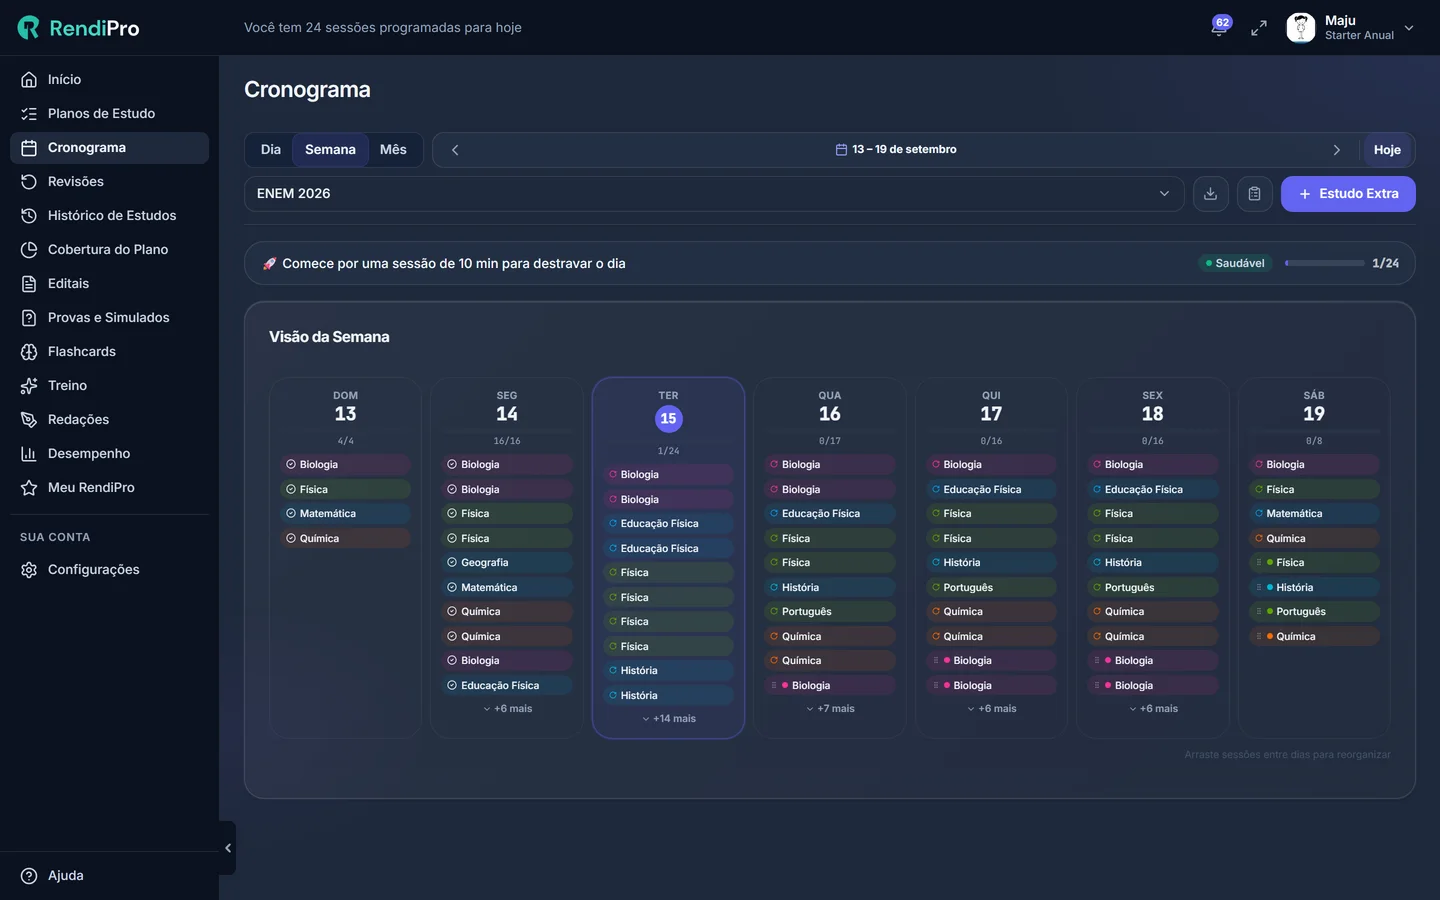
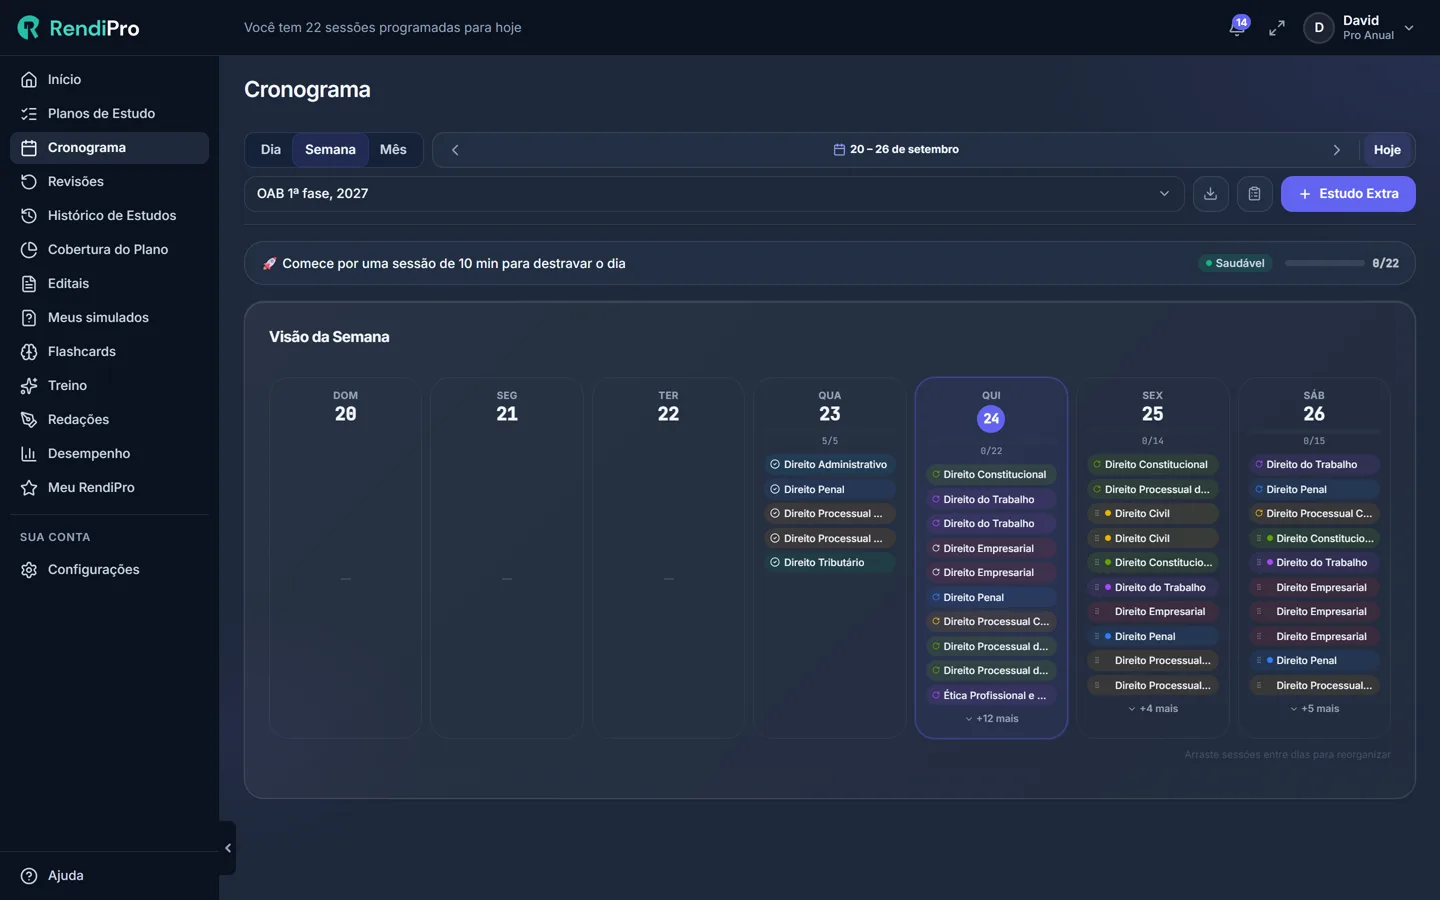
Primeira dobra no celular: a acao e a prova cabem na tela
167 pessoas vieram do anuncio, ficaram 16 segundos em media, 6 abriram a tela
de criar conta e nenhuma se cadastrou. Em 16s ninguem rola sete secoes: a
primeira dobra E a pagina para esse publico. Auditada pelo auditor-ui-ux, com
posicoes medidas em px, nao no olho.

O pior achado, confirmado: o aviso de cookies cobria 61% do CTA principal e
100% do secundario. E o secundario se chama "Ver como funciona", que e
exatamente o texto do botao do anuncio — a pessoa clicava nele no Instagram e
chegava numa pagina onde ele estava debaixo do aviso. O alvo de toque do
primario tinha sobrado 22px (o minimo e 44). E o botao "Entendi e aceito" era
teal solido, a mesma cor do CTA: o unico botao teal inteiro na tela era o de
dispensar o aviso.

O que mudou:
- aviso de cookies: bloco de 177px vira barra de 57px, botao neutro;
- copy da dobra: 68 palavras viram 25 (~20s de leitura para ~7,5s), ou seja,
  o texto era mais longo que a sessao media;
- H1 passa a ser o texto do anuncio, palavra por palavra ("Seu edital vira
  cronograma. Sem planilha."): message match e a alavanca mais forte em trafego
  pago, a pessoa confere em 1 segundo se chegou no lugar certo;
- print do produto sobe de 949px (105px abaixo da dobra) para ~660: o anuncio
  prometia ver o produto e o celular nao mostrava produto nenhum;
- o print era de ENEM numa campanha de CONCURSO. Trocado por captura real da
  conta OAB (Direito Constitucional, Administrativo, Penal, Tributario), e a
[…]

diff --git a/src/components/Hero.jsx b/src/components/Hero.jsx
@@ -1,4 +1,4 @@
-import { ArrowRight, Lock, Rocket, Shield, Sparkles } from 'lucide-react'
+import { ArrowRight, Rocket, Shield, Sparkles } from 'lucide-react'
 import { useInfluencer } from '../contexts/InfluencerContext'
 import { trackRegisterCta } from '../lib/tracking'
 import { useSectionView } from '../lib/useSectionView'
@@ -14,50 +14,64 @@ import { InteractiveFlashcard } from './ui/InteractiveFlashcard'
  * reduzir LCP mobile de 4.8s para <2.5s.
  */
 
-const trackHeroCta = () => trackRegisterCta({ buttonText: 'Montar meu plano de estudos', location: 'hero' })
+const trackHeroCta = () => trackRegisterCta({ buttonText: 'Montar meu cronograma', location: 'hero' })
 
 export function Hero() {
     const { getCheckoutUrl } = useInfluencer()
     const sectionRef = useSectionView('hero')
 
     return (
-        <section ref={sectionRef} className="relative overflow-hidden pt-10 pb-16 md:pt-16 md:pb-24 lg:pt-20 lg:pb-28">
+        <section ref={sectionRef} className="relative overflow-hidden pt-6 pb-12 md:pt-16 md:pb-24 lg:pt-20 lg:pb-28">
             {/* ─── Background layers ───────────────────────────────────── */}
             <div className="pointer-events-none absolute inset-0 -z-20 bg-[radial-gradient(ellipse_at_top,_var(--color-primary-600)_0%,_transparent_55%)] opacity-10" />
             <div className="pointer-events-none absolute top-0 left-1/2 -z-10 h-[700px] w-[1100px] -translate-x-1/2 rounded-full bg-primary-500/15 blur-[140px]" />
             <div className="pointer-events-none absolute top-[20%] right-0 -z-10 h-[400px] w-[400px] rounded-full bg-accent-500/15 blur-[100px]" />
 
             <div className="container mx-auto px-4 sm:px-6 lg:px-8">
-                <div className="grid items-center gap-12 lg:grid-cols-[1.15fr_1fr] lg:gap-16">
+                <div className="grid items-center gap-7 sm:gap-10 lg:grid-cols-[1.15fr_1fr] lg:gap-16">
                     {/* ─── LEFT · Copy ──────────────────────────────── */}
                     <div className="text-center lg:text-left">
+                        {/* A prova (MP-RS) fica em TODA largura. Antes o celular via só
+                            "Nasceu de uma aprovação real", sem dizer qual: truncava justo a
+                            parte que prova. */}
                         <div className="inline-flex animate-fade-in-up">
                             <Eyebrow variant="primary">
                                 <Sparkles size={14} />
-                                <span className="md:hidden">Nasceu de uma aprovação real</span>
+                                <span className="md:hidden">Feito por quem passou no <span className="whitespace-nowrap">MP-RS</span></span>
                                 <span className="hidden md:inline">Nasceu de uma aprovação real no MP-RS em 2023</span>
                             </Eyebrow>
                         </div>
 
                         {/* H1 SEM animação — é o LCP element em mobile, qualquer fade-in c/ opacity:0
-                            inicial atrasa o LCP. Pintura instantânea para Lighthouse marcar cedo. */}
+                            inicial atrasa o LCP. Pintura instantânea para Lighthouse marcar cedo.
+
+                            O texto é o MESMO do anúncio que traz o tráfego pago
+                            ("Seu edital vira cronograma. Sem planilha."). Message match
+                            entre criativo e dobra é o ajuste de maior efeito em tráfego pago:
+                            a pessoa confere em 1 segundo que chegou no lugar certo. */}
                         <h1
-                            className="mt-6 text-display-sm sm:text-display-lg lg:text-display-xl text-white"
+                            className="mt-4 md:mt-6 text-display-sm sm:text-display-lg lg:text-display-xl text-white"
                         >
-                            Seu cronograma montado a partir do seu edital,{' '}
-                            <span className="text-gradient-primary">automaticamente</span>.
+                            Seu edital vira <span className="text-gradient-primary">cronograma</span>.
+                            <br className="sm:hidden" />{' '}Sem planilha.
                         </h1>
 
                         {/* Subtitle SEM animação — candidato a LCP em desktop (texto longo).
-                            Pintura instantânea para Lighthouse marcar cedo. */}
+                            Pintura instantânea para Lighthouse marcar cedo.
+
+                            Encurtado de ~60 para ~20 palavras em 24/09/2026: a sessão média
+                            da campanha do Instagram é de 16s e só este parágrafo levava ~18s
+                            para ser lido. Apostila virando questão e redação corrigida saíram
+                            daqui; já têm seção inteira mais abaixo. */}
                         <p
-                            className="mt-6 max-w-2xl mx-auto lg:mx-0 text-body-lg text-white/70"
+                            className="mt-4 md:mt-6 max-w-2xl mx-auto lg:mx-0 text-body-lg text-white/70 text-pretty"
                         >
-                            Organizar o estudo consome horas que deviam ser de estudo. <strong className="font-semibold text-white">O RendiPro faz essa parte por você:</strong> monta o cronograma pelo edital, marca a revisão no dia certo, transforma sua apostila em questões e corrige sua redação com nota por competência. Tudo em um plano só, sem pagar a mais por nada disso.{CAMPANHA_ANUAL_ATIVA ? ' 1 mês grátis no plano anual.' : ''}
+                            Escolha o edital e o RendiPro monta a semana inteira:{' '}
+                            <strong className="font-semibold text-white">o que estudar hoje, por quanto tempo e quando revisar.</strong>
                         </p>
 
                         <div
-                            className="mt-6 sm:mt-10 flex flex-col items-stretch gap-4 sm:flex-row sm:items-center sm:justify-center lg:justify-start animate-fade-in-up"
+                            className="mt-5 sm:mt-8 flex flex-col items-stretch gap-3 sm:flex-row sm:items-center sm:justify-center sm:gap-4 lg:justify-start animate-fade-in-up"
                             style={{ animationDelay: '300ms' }}
                         >
                             <Button
@@ -66,14 +80,16 @@ export function Hero() {
                                 onClick={trackHeroCta}
                                 variant="primary"
                                 size="lg"
+                                className="px-6 sm:px-10"
                             >
-                                Montar meu plano de estudos
+                                Montar meu cronograma
                                 <Rocket
                                     size={20}
                                     className="transition-transform group-hover:-translate-y-1 group-hover:translate-x-1"
                                 />
                             </Button>
-                            <Button as="a" href="#plano" variant="secondary" size="lg">
+                            {/* Rótulo igual ao CTA do anúncio, de propósito. */}
+                            <Button as="a" href="#plano" variant="secondary" size="lg" className="px-6 sm:px-10">
                                 Ver como funciona
                                 <ArrowRight
                                     size={18}
@@ -82,26 +98,25 @@ export function Hero() {
                             </Button>
                         </div>
 
+                        {/* Preço: "A partir de R$ 9,90 mensais" omitia que os R$ 9,90 são o
+                            anual dividido por 12 (o mensal de verdade é R$ 16,90). O arquivo
+                            pricing-plans.js já tinha derrubado uma âncora pelo mesmo motivo
+                            (CDC art. 37). Agora a condição vem junto do número. */}
                         <p
                             className="mt-4 text-body font-semibold text-white animate-fade-in"
                             style={{ animationDelay: '400ms' }}
                             data-testid="hero-preco"
                         >
-                            A partir de R$ 9,90 mensais
+                            R$ 9,90 por mês no plano anual
                         </p>
+                        {/* Três linhas de reforço viraram uma: em 16 segundos ninguém lê rodapé
+                            de hero, e cada linha empurrava o print do produto para fora da tela. */}
                         <p
-                            className="mt-3 inline-flex items-center gap-2 text-body-sm font-medium text-white/70 animate-fade-in"
+                            className="mt-1.5 inline-flex items-center justify-center lg:justify-start gap-1.5 text-caption text-white/55 animate-fade-in"
                             style={{ animationDelay: '450ms' }}
                         >
-                            <Shield size={16} className="text-primary-400" />
-                            Garantia de 7 dias. Não gostou? 1 clique e devolvemos 100%.
-                        </p>
-                        <p
-                            className="mt-2 inline-flex items-center gap-2 text-caption text-white/50 animate-fade-in"
-                            style={{ animationDelay: '550ms' }}
-                        >
-                            <Lock size={14} className="text-white/40" />
-                            Pagamento seguro · Acesso imediato após confirmação
+                            <Shield size={13} className="shrink-0 text-primary-400" />
+                            {CAMPANHA_ANUAL_ATIVA ? '1º mês grátis · ' : ''}Garantia de 7 dias · Pagamento seguro
                         </p>
                     </div>
 
@@ -115,15 +130,37 @@ export function Hero() {
                                 glow
                                 className="relative z-10"
                             >
-                                <img
-                                    src="/screenshots/cronograma-semana.webp"
-                                    alt="Cronograma semanal personalizado de estudos no RendiPro, visão semanal com matérias coloridas"
-                                    width="1440"
-                                    height="900"
-                                    className="block h-auto w-full"
-                                    loading="eager"
-                                    fetchPriority="high"
-                                />
+                                {/* CELULAR: recorte. O print é de uma tela de 1440px; jogado
+                                    inteiro numa coluna de 358px ele vira um borrão (a barra
+                                    lateral do app sozinha comia 25% da largura e cada sessão
+                                    virava um risco colorido de 3px). Aqui o recorte mostra
+                                    três dias da semana em tamanho legível, que é a única
+                                    coisa que o anúncio prometeu mostrar. No md+ a imagem
+                                    volta inteira, que lá ela cabe.
+                                    Recorte na origem: x 740..1186, y 380..620 de 1440x900.
+                                    A janela foi recalibrada em 24/09 junto com a troca do
+                                    print: o de ENEM tinha os dias cheios mais à esquerda, e
+                                    a mesma janela no de concurso pegava dois dias vazios.
+                                    O deslocamento é por `translate`, que a porcentagem
+                                    resolve contra o PRÓPRIO elemento: assim o recorte não
+                                    depende de altura percentual herdada do pai, que é o
+                                    ponto onde `aspect-ratio` costuma escorregar no Safari.
+                                    322,87% = 1440/446 · translate = -740/1440 e -380/900. */}
+                                <div className="relative aspect-[446/240] overflow-hidden md:aspect-auto md:overflow-visible">
+                                    <img
+                                        src="/screenshots/cronograma-semana.webp"
+                                        alt="Cronograma semanal do RendiPro com as sessões de cada dia: Direito Constitucional, Administrativo, Penal e Processual"
+                                        width="1440"
+                                        height="900"
+                                        className="absolute left-0 top-0 block h-auto w-[322.87%] max-w-none translate-x-[-51.389%] translate-y-[-42.222%] md:static md:w-full md:translate-x-0 md:translate-y-0"
+                                        loading="eager"
+                                        fetchPriority="high"
+                                    />
+                                    {/* O recorte corta no meio da quarta coluna. O fade deixa
+                                        claro que a semana continua, em vez de parecer print
+                                        mal cortado. */}
+                                    <div className="pointer-events-none absolute inset-y-0 right-0 w-10 bg-gradient-to-l from-surface-950 via-surface-950/60 to-transparent md:hidden" />
+                                </div>
                             </ProductWindow>
                         </div>
 

diff --git a/src/components/CookieBanner.jsx b/src/components/CookieBanner.jsx
@@ -7,15 +7,20 @@ export function CookieBanner() {
     const [visible, setVisible] = useState(false)
     const [mounted, setMounted] = useState(false)
 
+    // Enquanto o aviso está na tela, a barra fixa de CTA do celular fica fora:
+    // as duas são `fixed bottom-0` e empilhavam uma em cima da outra (o aviso é
+    // z-50, a barra z-40), escondendo o preço e o botão "Começar".
     useEffect(() => {
         try {
             if (!localStorage.getItem(CONSENT_KEY)) {
                 setVisible(true)
                 setMounted(true)
+                document.body.dataset.cookieAviso = 'aberto'
             }
         } catch {
             // localStorage bloqueado em alguns navegadores em modo privado
         }
+        return () => { delete document.body.dataset.cookieAviso }
     }, [])
 
     const accept = () => {
@@ -25,6 +30,8 @@ export function CookieBanner() {
             // silently fail
         }
         setVisible(false)
+        delete document.body.dataset.cookieAviso
+        window.dispatchEvent(new Event('rendipro:cookie-aceito'))
         // Desmonta após a animação de saída (400ms)
         setTimeout(() => setMounted(false), 450)
     }
@@ -34,22 +41,24 @@ export function CookieBanner() {
     return (
         <div
             className={cn(
-                'fixed inset-x-0 bottom-0 z-50 border-t border-white/10 bg-surface-950/98 px-4 py-4 backdrop-blur-md',
+                'fixed inset-x-0 bottom-0 z-50 border-t border-white/10 bg-surface-950/98 px-4 py-2.5 backdrop-blur-md sm:py-3',
                 'transition-[transform,opacity] duration-400 ease-[cubic-bezier(0.16,1,0.3,1)]',
                 visible
                     ? 'translate-y-0 opacity-100'
                     : 'translate-y-full opacity-0 pointer-events-none'
             )}
-            style={{ paddingBottom: 'max(1rem, env(safe-area-inset-bottom))' }}
+            style={{ paddingBottom: 'max(0.625rem, env(safe-area-inset-bottom))' }}
             role="region"
             aria-label="Aviso de cookies e privacidade"
             aria-hidden={!visible}
         >
-            <div className="container mx-auto flex flex-col items-start gap-4 sm:flex-row sm:items-center sm:justify-between">
-                <p className="max-w-2xl text-body-sm text-white/65">
-                    Usamos cookies para melhorar sua experiência e medir o desempenho dos nossos
-                    anúncios (Meta Ads).{' '}
-                    Ao continuar navegando, você concorda com nossa{' '}
+            {/* Barra RASA de propósito. A versão anterior era um bloco de 177px em
+                390x844 e cobria o CTA principal do hero (medido em 24/09/2026:
+                banner 667→844, botão 645→701). Aviso de cookie não pode comer a
+                dobra de uma landing paga. */}
+            <div className="container mx-auto flex items-center gap-3">
+                <p className="min-w-0 flex-1 text-caption leading-snug text-white/55 sm:text-body-sm">
+                    Usamos cookies para medir nossos anúncios. Veja a{' '}
                     <a
                         href="https://app.rendipro.com.br/privacidade"
                         target="_blank"
@@ -63,9 +72,9 @@ export function CookieBanner() {
                 <button
                     type="button"
                     onClick={accept}
-                    className="shrink-0 rounded-full bg-primary-500 px-6 py-2.5 text-body-sm font-bold text-surface-950 transition-all hover:bg-primary-400 active:scale-95"
+                    className="h-9 shrink-0 rounded-full bg-white/10 px-4 text-body-sm font-semibold text-white transition-all hover:bg-white/20 active:scale-95"
                 >
-                    Entendi e aceito
+                    Ok
                 </button>
             </div>
         </div>

diff --git a/src/components/StickyMobileCTA.jsx b/src/components/StickyMobileCTA.jsx
@@ -41,16 +41,23 @@ export function StickyMobileCTA() {
                     ? footer.getBoundingClientRect().top < window.innerHeight - 80
                     : false
 
-                setIsVisible(scrolled > 100 && !footerInView)
+                // O aviso de cookie ocupa a MESMA faixa de baixo e tem z maior:
+                // enquanto ele estiver aberto, esta barra ficaria escondida atrás
+                // dele. Melhor não existir do que existir invisível.
+                const avisoCookieAberto = document.body.dataset.cookieAviso === 'aberto'
+
+                setIsVisible(scrolled > 100 && !footerInView && !avisoCookieAberto)
                 raf = null
             })
         }
 
         window.addEventListener('scroll', handleScroll, { passive: true })
+        window.addEventListener('rendipro:cookie-aceito', handleScroll)
         handleScroll() // initial check
 
         return () => {
             window.removeEventListener('scroll', handleScroll)
+            window.removeEventListener('rendipro:cookie-aceito', handleScroll)
             if (raf) cancelAnimationFrame(raf)
         }
     }, [])
@@ -80,8 +87,11 @@ export function StickyMobileCTA() {
                                     Starter Anual
                                 </span>
                                 <span className="text-body font-extrabold text-primary-300">
-                                    {/* Âncora VERDADEIRA: o preço do Starter Mensal (grade v2) */}
-                                    <span className="text-[11px] font-medium text-white/40 line-through mr-1">R$ 16,90</span>
+                                    {/* Saiu em 24/09/2026 o riscado "R$ 16,90". Ele é o preço
+                                        do Starter MENSAL, e ao lado de "R$ 9,90/mês" fazia
+                                        parecer desconto no mensal, quando os R$ 9,90 são o
+                                        anual dividido por 12. Mesma razão que derrubou a
+                                        âncora de R$ 24,90 em pricing-plans.js. */}
                                     R$ 9,90
                                     <span className="text-[11px] font-medium text-white/60">/mês</span>
                                 </span>

diff --git a/src/components/Navbar.jsx b/src/components/Navbar.jsx
@@ -3,7 +3,7 @@ import { useState } from 'react'
 import { useInfluencer } from '../contexts/InfluencerContext'
 import { trackRegisterCta } from '../lib/tracking'
 
-const trackNavbarCta = () => trackRegisterCta({ buttonText: 'Comece Agora', location: 'navbar' })
+const trackNavbarCta = () => trackRegisterCta({ buttonText: 'Começar agora', location: 'navbar' })
 
 export function Navbar() {
     const [isOpen, setIsOpen] = useState(false)
@@ -49,10 +49,16 @@ export function Navbar() {
                     >
                         Entrar
                     </a>
+                    {/* Em celular este botão era o elemento de maior contraste da tela
+                        (branco sólido) e ganhava do CTA de verdade, que é teal. Virou
+                        contorno no celular e volta a ser sólido no desktop, onde não
+                        disputa com nada. O destino também foi unificado: antes ia para
+                        /register SEM plano, enquanto o hero e a barra fixa iam para
+                        starter-anual. Mesma ação, mesmo lugar. */}
                     <a
-                        href={getCheckoutUrl("https://app.rendipro.com.br/register")}
+                        href={getCheckoutUrl("https://app.rendipro.com.br/register?plano=starter-anual&utm_content=navbar")}
                         onClick={trackNavbarCta}
-                        className="rounded-full bg-white px-5 py-2 text-sm font-semibold text-surface-950 transition-all active:scale-95 hover:bg-white/90"
+                        className="rounded-full border border-white/25 px-4 py-2 text-sm font-semibold text-white transition-all active:scale-95 hover:bg-white/10 md:border-transparent md:bg-white md:px-5 md:text-surface-950 md:hover:bg-white/90"
                     >
                         Começar agora
                     </a>

diff --git a/src/components/FinalCTA.jsx b/src/components/FinalCTA.jsx
@@ -8,7 +8,7 @@ import { Eyebrow } from './ui/Eyebrow'
 
 const easeSpring = [0.16, 1, 0.3, 1]
 
-const trackFinalCta = () => trackRegisterCta({ buttonText: 'Montar meu plano agora', location: 'final_cta' })
+const trackFinalCta = () => trackRegisterCta({ buttonText: 'Montar meu cronograma', location: 'final_cta' })
 
 export function FinalCTA() {
     const { getCheckoutUrl } = useInfluencer()
@@ -52,7 +52,7 @@ export function FinalCTA() {
                             size="lg"
                             className="sm:px-12"
                         >
-                            Montar meu plano agora
+                            Montar meu cronograma
                             <ArrowRight
                                 size={18}
                                 className="transition-transform group-hover:translate-x-1"
